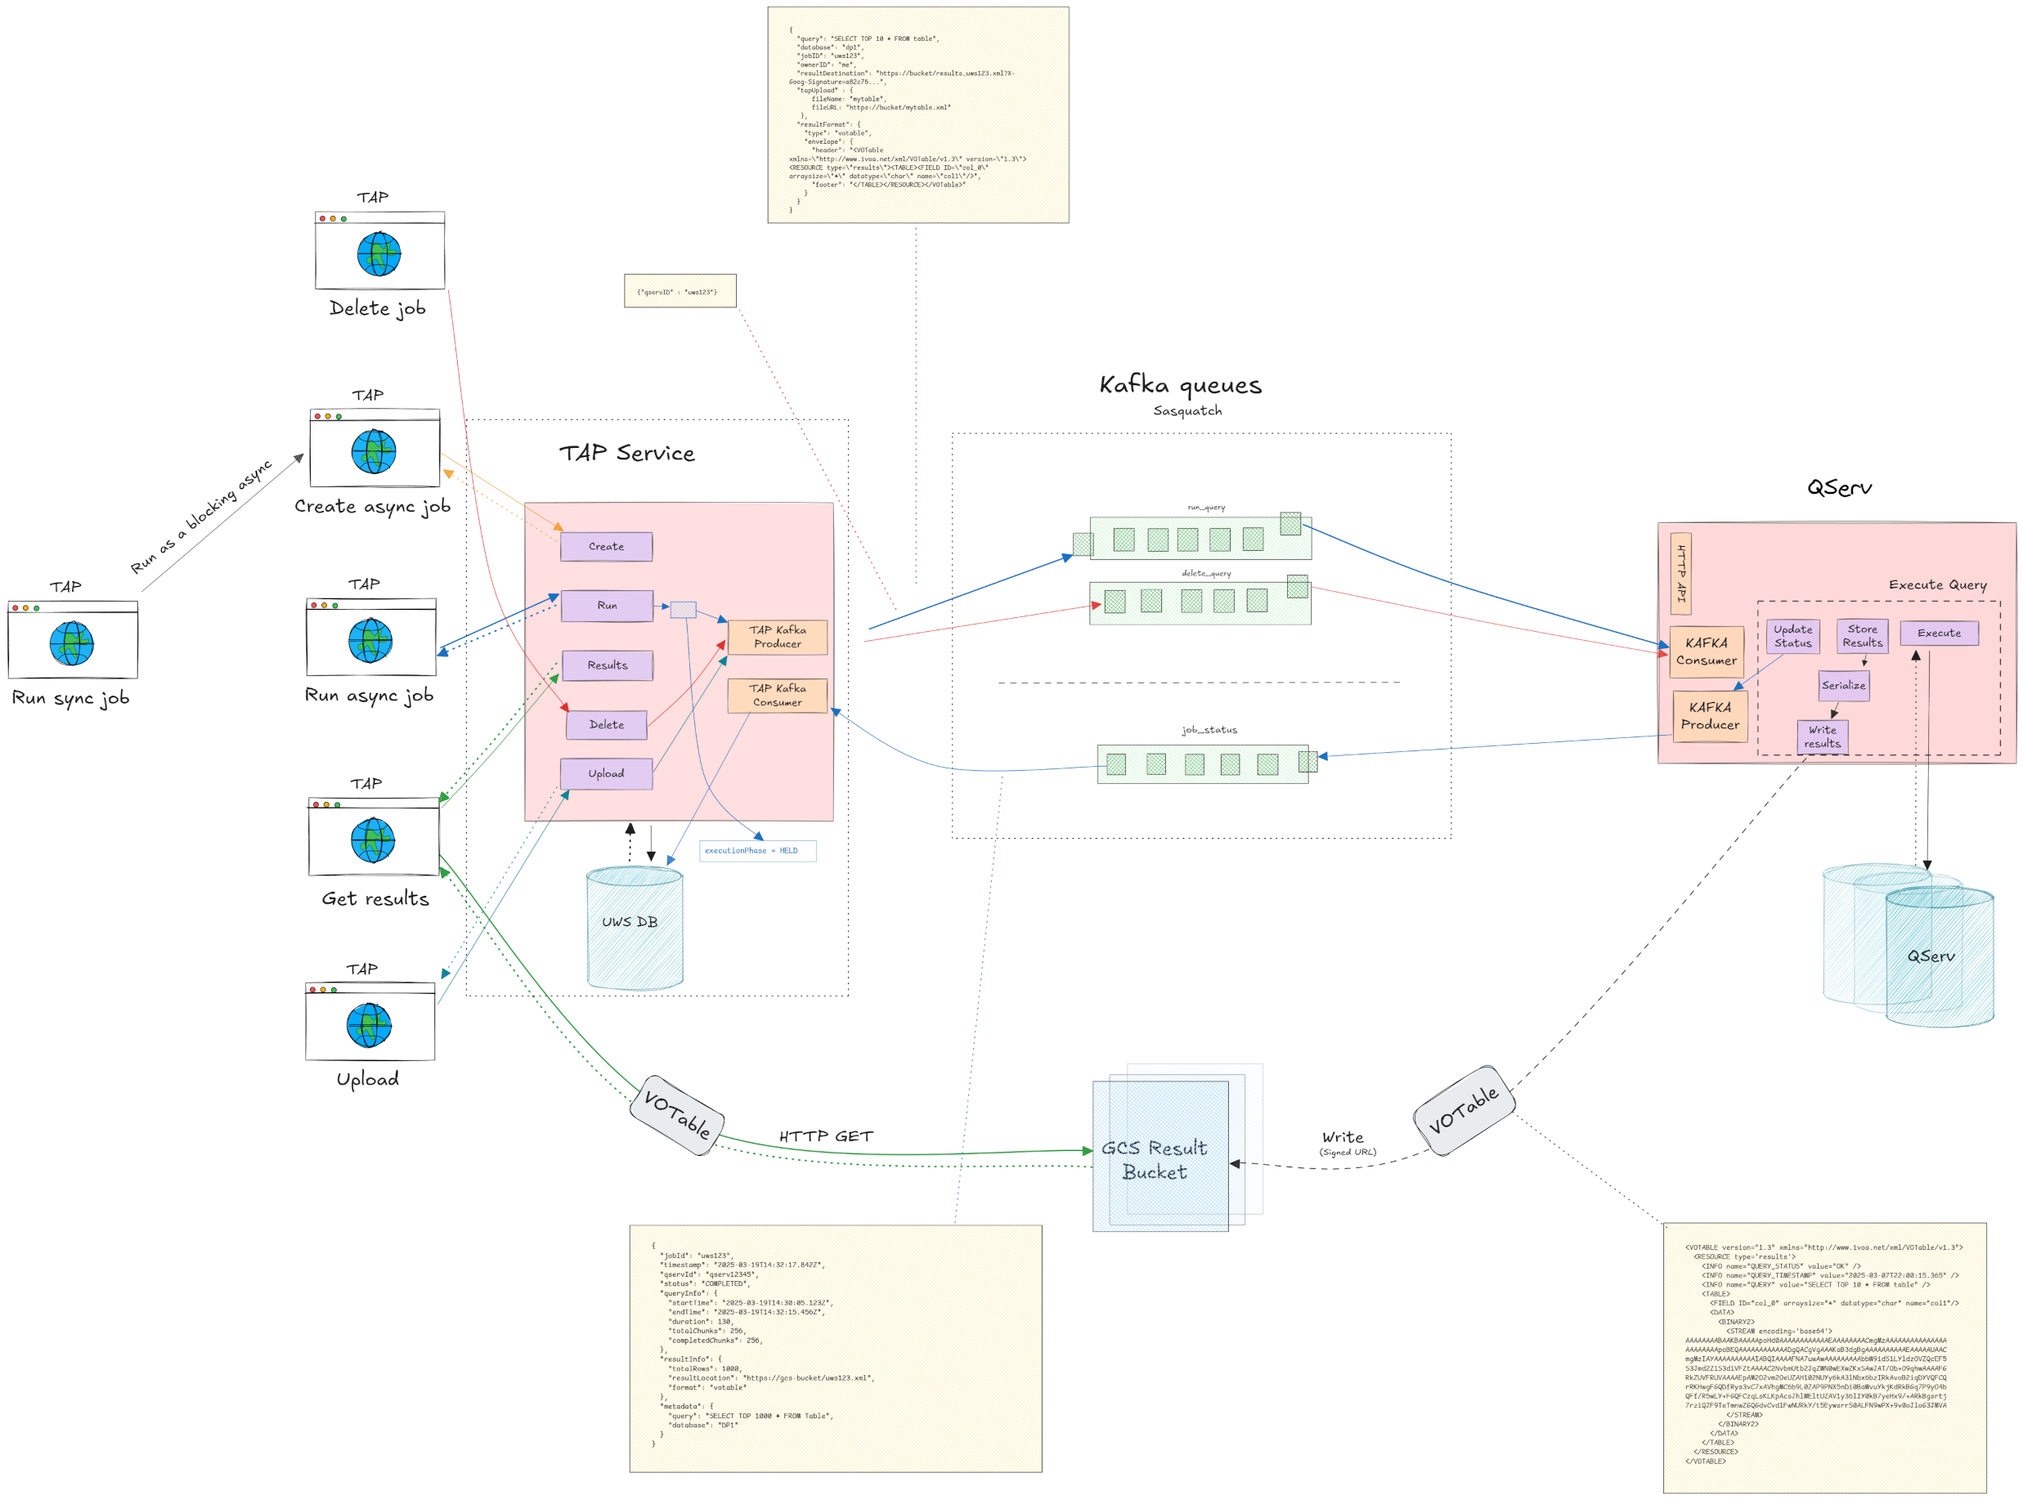
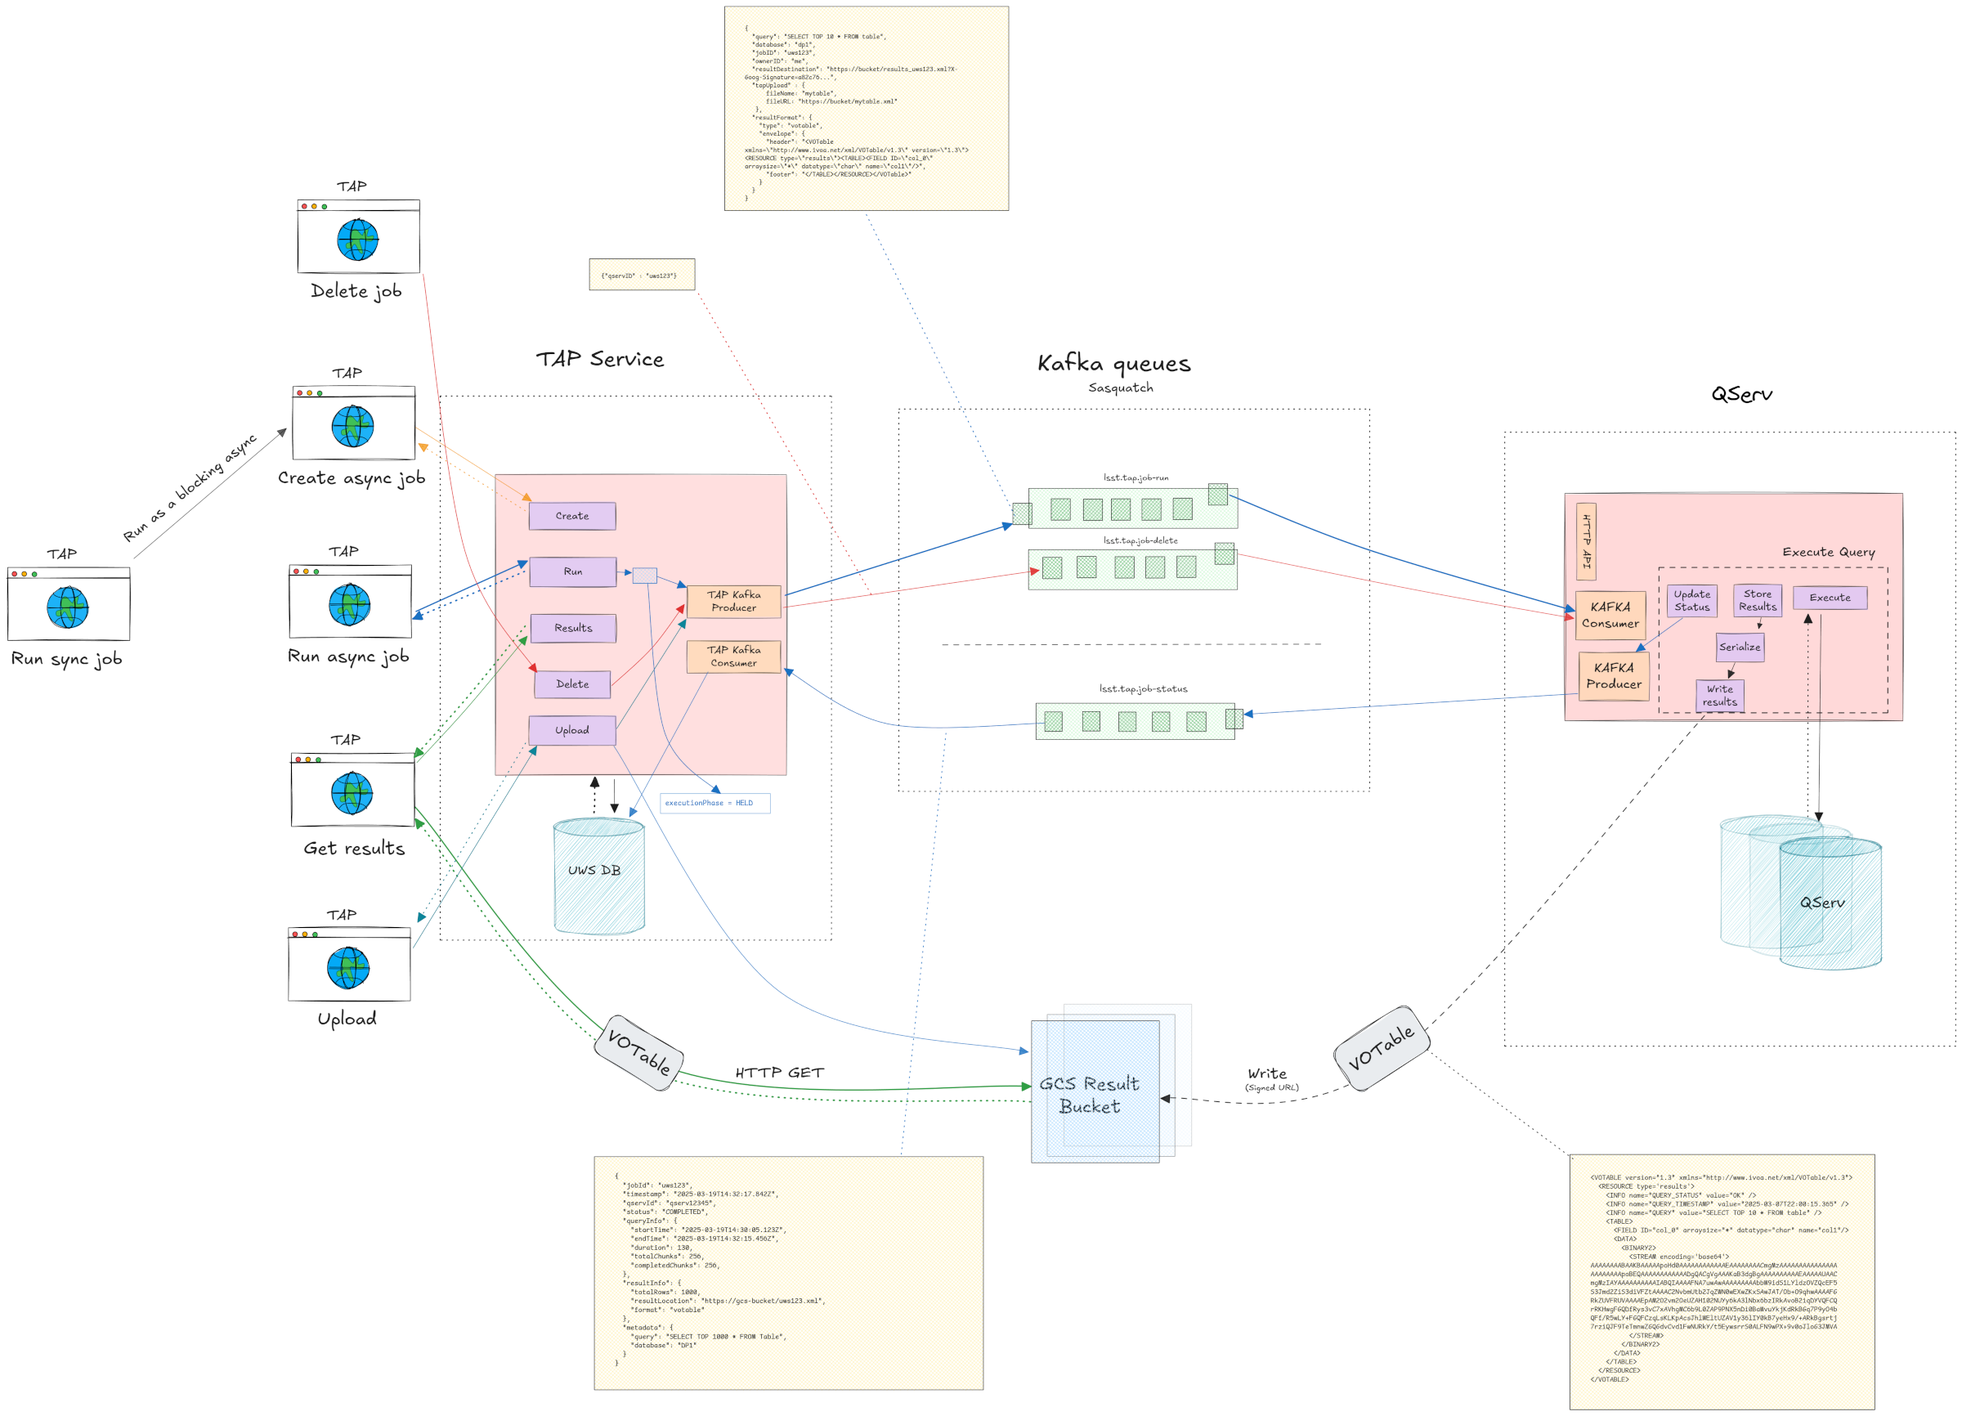
Updates from Angelos review

diff --git a/index.md b/index.md
@@ -6,7 +6,7 @@ The current setup lacks crucial query control capabilities - specifically, the a
 We propose a new event-based architecture that decouples the TAP service from 
 QServ. This architecture utilizes Kafka queues as the means for messaging 
 between TAP and QServ, with a plan to take advantage of existing systems 
-and knowledge (Sasquatch, Strimzi), to enable asynchronous query execution 
+and knowledge, in particular, Apache Kafka managed by Sasquatch to enable asynchronous query execution 
 with capabilities for query cancellation and monitoring.
 ```
 
@@ -64,6 +64,7 @@ System Architecture
 ```
 
 ### Core Components
+
 - TAP Service: CADC TAP service
 - UWS Database: Stores job information and status
 - QServ: Distributed database with HTTP REST API for query execution
@@ -71,6 +72,7 @@ System Architecture
 - Google Cloud Storage (GCS): Store Query VOTable results
 
 ### Key Technical Elements
+- 
 - Job ID Correlation: We’ll maintain a mapping between uws jobID and qservID
 This may be done as an additional field in the UWS table (qservID)
 - Signed URLs: We may be able to use signed URLs as a means for QServ to write to GCS without credential management
@@ -94,26 +96,40 @@ This may be done as an additional field in the UWS table (qservID)
 - TAP service performs query validation, transformation to QServ SQL, and 
   extracts select list with metadata and generates the VOTable envelope
 - (Optional) TAP service updates the status of the job to QUEUED
-- TAP service publishes a message to the run_query Kafka topic
+- TAP service publishes a message to the lsst.tap.job-run Kafka topic
 - Nothing else required at this point from the TAP Service.
 
 #### QServ:
 
-- QServ pulls an event from run_query Kafka queue
-- QServ sends out a job_status update event with status = EXECUTING 
+- QServ pulls an event from lsst.tap.job-run Kafka queue
+- QServ sends out a lsst.tap.job-status update event with status = EXECUTING 
   and begins the query execution
+- While executing the query, QServ sends out lsst.tap.job-status events with 
+  progress information, such as the number of chunks processed, 
+  estimated time remaining, etc. The interval of these updates is TBD, but
+  perhaps every 20% of the total chunks processed would be a good starting 
+  point.
 - Upon completion, it serializes the results as a VOTable (XML), using the VOTable envelope provided, ideally using BINARY2 serialization.
 - QServ writes the results to the GCS bucket, using the signed URL provided
-- Upon successful writing, it sends out an event to the job_status with the 
+- Upon successful writing, it sends out an event to the lsst.tap.job-status with the 
   status of the job (COMPLETED / FAILED / ABORTED).
 
 #### TAP Service:
 
-- TAP Service pulls events from job_status.
+- TAP Service pulls events from lsst.tap.job-status.
 - It then updates the UWS database with the metadata provided in that event.
 - Events in this case may indicate a Completed job, a job that failed along with metadata on reasons for the failure, or a status of RUNNING to indicate that the job is now executing. 
-We may also choose to include progress information here which is available in QServ, like how many chunks out of the total have completed. 
-This can then be added to the jobdetail UWS table and become available via the UWS job endpoint.
+
+One of the benefits of the new architectue is that it allows us to provide 
+progress information to the user. The initial proposal here is to store this
+information in the jobdetail UWS table, with each update event appending a 
+new row to that table.
+
+If we find that this is producing too much data, we may also consider
+introducing a new field in the UWS job table to store the progress information,
+though this would probably be an implementation-specific defail which would not
+end up as part of the upstream CADC codebase.
+
  
 #### Result Retrieval Flow
 
@@ -163,47 +179,39 @@ before deciding if we need to move to a more complex solution.
     
 #### TAP Service:
 
-- Upon receiving a request to delete a job send an event to the delete_query 
+- Upon receiving a request to delete a job send an event to the lsst.tap.job-delete 
 topic
 - Update the status of the UWS job to set it to DELETED
 
 #### QServ:
 
 - Upon receiving a request to delete a job, stop and delete query
+Our approach here would be to set the job to DELETED in UWS before sending off the event in Kafka. This ensures that the job is marked as deleted, in case the user checks the status before the event is processed by QServ.
 
 
-A detail here to be ironed out is whether we should set the job to DELETED in UWS regardless of what happens on the 
-QServ side, or if we instead add another interaction step where we wait for 
-a job status update from QServ which will then set the job to DELETED.
+#### Temporary Upload Data Flow
 
-If we go with the second approach, we may run into the following scenario:
-- User asks to delete a job.
-- User asks to see this job, which has a status of COMPLETED instead of 
-  DELETED.
-
-Therefore, it probably makes to go with the first approach and set the job to DELETED in UWS regardless of what happens on the QServ side.
-
-
-#### TAP Upload Data Flow
-
-The TAP Upload process will look something like this:
+The temporary TAP Upload process will look something like this:
 
 #### TAP Service:
+
 - Upon receiving a request to do a TAP_UPLOAD query, we take the uploaded file 
   and push it to GCS. 
-- Send the GCS URL along with a name for the file to the upload_table topic 
-  as additional metadata in the run_query event.
+- Send the GCS URL along with a name for the file as additional metadata in the lsst.tap.job-run event.
 
 #### QServ:
 
 - Upon receiving a request to upload a user table, use the GCS URL to upload 
 the file into QServ.
 - Once table has been uploaded, initialize the query and send a topic to 
-  job_status with status = EXECUTING
-- Upon completion, send an event to the job_status topic with the status of 
+  lsst.tap.job-status with status = EXECUTING
+- Upon completion, send an event to the lsst.tap.job-status topic with the status of 
   the job (COMPLETED / FAILED / ABORTED).
 - Delete table from QServ
 
+This is a preliminary design for the temporary TAP upload which requires 
+some more considerations and may be changed in the future as we get 
+further into the implementation.
 
 ## 3.  Event Schemas
 
@@ -213,13 +221,8 @@ the file into QServ.
 
     {
       "type": "object",
-      "required": ["query", "jobID", "ownerID", "resultDestination", "resultFormat", "schemaVersion"],
+      "required": ["query", "jobID", "ownerID", "resultDestination", "resultFormat"],
       "properties": {
-        "schemaVersion": {
-          "type": "string",
-          "description": "Version of the schema",
-          "default": "1.0"
-        },
         "query": {
           "type": "string",
           "description": "The SQL query to be executed by QServ"
@@ -293,7 +296,6 @@ the file into QServ.
 ### Job run example event
 
     {
-      "schemaVersion": "1.0",
       "query": "SELECT TOP 10 * FROM table",
       "database": "dp1",
       "jobID": "uws123",
@@ -315,13 +317,8 @@ the file into QServ.
 
     {
       "type": "object",
-      "required": ["qservID", "schemaVersion"],
+      "required": ["qservID"],
       "properties": {
-        "schemaVersion": {
-          "type": "string",
-          "description": "Version of the schema",
-          "default": "1.0"
-        },
         "qservID": {
           "type": "string",
           "description": "QServ query ID"
@@ -336,7 +333,6 @@ the file into QServ.
 ### Example job delete event
 
     {
-      "schemaVersion": "1.0",
       "qservID": "qserv-123",
       "ownerID": "me"
     }
@@ -348,13 +344,8 @@ the file into QServ.
 
     {
       "type": "object",
-      "required": ["jobID", "timestamp", "status", "schemaVersion"],
+      "required": ["jobID", "timestamp", "status"],
       "properties": {
-        "schemaVersion": {
-          "type": "string",
-          "description": "Version of the schema",
-          "default": "1.0"
-        },
         "jobID": {
           "type": "string",
           "description": "UWS job ID"
@@ -470,7 +461,6 @@ the file into QServ.
 ### Job status for completed query example
 
     {
-      "schemaVersion": "1.0",
       "jobID": "uws-123",
       "qservID": "qserv-123",
       "timestamp": "2025-03-19T..",
@@ -497,7 +487,6 @@ the file into QServ.
 ### Job status with error
 
     {
-      "schemaVersion": "1.0",
       "jobID": "uws-123",
       "qservID": "qserv-123",
       "timestamp": "2025-03-19T..",
@@ -521,14 +510,37 @@ the file into QServ.
       }
     }
 
-## 4. Kafka Topics Structure
+## Result Format & Serialization
 
-- run_query - Requests to start a query from TAP service towards QServ
-- delete_query - Requests to stop & delete a query from TAP service towards QServ
-- job_status - Update to job status from QServ towards TAP service 
+There are three possible formats that we are considering for the results:
+
+- VOTable with TABLEDATA serialization
+- VOTable with BINARY2 serialization (https://www.ivoa.net/documents/VOTable/20241125/PR-VOTable-1.5-20241125.html#tth_sEc5.4)
+- VOTable-in-parquet https://wiki.ivoa.net/twiki/bin/viewfile/IVOA/InterOpNov2024Apps?filename=votparquet.pdf;rev=1)
+
+The selection is primarily driven by compatibility with the main data 
+consumers, pyvo and Firefly, along with performance optimization 
+considerations.
+
+TABLEDATA serialization will be the simplest to implement, but it is also
+the least efficient in terms of data transfer. BINARY2 serialization is
+more efficient, but it is also more complex to implement. VOTable-in-parquet
+is the most efficient, but it is work in progress and may not be ready for
+DP1.
+
+The proposal for this technote is to aim to implement BINARY2 serialization
+for the initial implementation, with a backup plan to use TABLEDATA if
+BINARY2 is not feasible, and a longer-term goal of moving to VOTable-in-parquet
+once it is ready.
+
+## 5. Kafka Topics Structure
+
+- lsst.tap.job-run - Requests to start a query from TAP service towards QServ
+- lsst.tap.job-delete - Requests to stop & delete a query from TAP service towards QServ
+- lsst.tap.job-status - Update to job status from QServ towards TAP service 
 
 
-## 5. Potential Challenges and Considerations
+## 6. Potential Challenges and Considerations
 
 
 ### How do we handle ObsCore queries that return datalinks?
@@ -541,7 +553,7 @@ However, in the new architecture, QServ will be writing the results to GCS,
 without the results going through TAP, so we need to figure out a way to 
 provide the base URL to QServ so that it can use this in the access_url field of the VOTable.
 
-In the proposal here, we include the base URL in the metadata provided in the run_query event, 
+In the proposal here, we include the base URL in the metadata provided in the lsst.tap.job-run event, 
 which QServ can then use to construct the access_url field in the VOTable.
 
 ### Should QServ be aware of the UWS job? 
@@ -577,38 +589,43 @@ check that the user is the owner of the job before sending the delete
 event, or QServ needs to check this before deleting the job.
 Probably the best approach is to have the TAP service to do this check.
 
-## 6. QServ Change Requirements
+## 7. QServ Change Requirements
 
-### 6.1 Add Kafka consumer and Producer
+### Add Kafka consumer and Producer
 
-Add a Kafka consumer in the QServ app which will read from the run_query, 
-delete_query topics and act on the messages received.
+Add a Kafka consumer in the QServ app which will read from the lsst.tap.job-run, 
+lsst.tap.job-delete topics and act on the messages received.
 
-Add a Kafka producer in QServ which will send out events for job_status updates, including:
+Add a Kafka producer in QServ which will send out events for lsst.tap.job-status updates, including:
 - Job is running
 - Job has completed, either successfully or with failure
 
 
-### 6.2 Result Writing Mechanism
+### Result Writing Mechanism
 
 Implement functionality to:
 Write query results directly to GCS using the provided signed URL
 
-### 6.3 Result Format
+### Result Format
 
 Generate a VOTable for the results. Ideally use the BINARY2 table serialization
 The VOTable header/footer will be provided in the initial query request.
 
-### 6.4 (Optional) Correlate UWS job ID with QServ ID
+### Correlate UWS job ID with QServ ID
 
-This is an optional requirement, but it would be useful to have a way to correlate the UWS jobID with the QServ queryID.
+Upon TAP sending a job-run event, QServ will need to either:
 
-The metadata provided in the create query event will include the uws jobID. 
-If this jobID can then be included in the outgoing event from QServ, then we can use this in the process of syncing this event to the UWS database, which uses the jobID as a pkey.
+a) Store the mapping between UWS jobID and QServ queryID
+b) Take the uws jobID that was provided in the event, and send it as part of
+the job-status event, so that the TAP service can correlate the two.
 
-If this is not possible we’ll have to use qservID as the key.
+Ideally, if it can be passed along with every job status event, the TAP
+can use that to update the UWS job status. Otherwise, we can also use 
+qservID as the key (assuming we have indexed it as a new field in the UWS 
+job table), however the initial correlation still needs to happen, so the 
+initial job-run event would have to contain the uws jobID.
 
-### 6.5 Authentication and Security
+### Authentication and Security
 
 #### Writing to GCS:
 
@@ -616,23 +633,23 @@ Qserv should be able to write results to GCS using signed URLs.
 Also, we need to ensure that the Kafka producer and consumer can interact 
 with the cloud idfs.
 
-### 6.6 Failed queries
+### Failed queries
 
 Failed synchronous queries need to be written out as proper VOTable results with error status and messages contained as per the IVOA spec.
 In this design, probably the best way to handle this is to have QServ 
-include any error messages in the job_status event, and then have the TAP 
+include any error messages in the lsst.tap.job-status event, and then have the TAP 
 service update the UWS job with this error message. In the case of a 
 synchronous query the TAP service will then have to generate the VOTable 
-which will contain this error message it got from the job_status event.
+which will contain this error message it got from the lsst.tap.job-status event.
 
-### 6.7 Datalink access_urls
+### Datalink access_urls
 
 As mentioned above, we need to figure out a way to provide the base URL to QServ 
 so that it can use this in the access_url field of the VOTable. This 
 implies some additional logic in QServ to know when to format the results of a
 query and overwrite the access_url field with the base URL provided.
 
-A simple approach would be that when QServ receives a run_query event that 
+A simple approach would be that when QServ receives a lsst.tap.job-run event that 
 contains a base URL, it will use this base URL to overwrite the access_url. 
 
 In other words the TAP service already knows that it wants the results 
@@ -644,11 +661,11 @@ to indicate the field name to format, and how to format the row values.
 
 
 
-## 7. TAP Service Change Requirements
+## 8. TAP Service Change Requirements
 
 ### TAP Kafka Consumer
 
-A Kafka consumer which listens to job_status topics and updates the UWS database accordingly.
+A Kafka consumer which listens to lsst.tap.job-status topics and updates the UWS database accordingly.
 
 ### TAP Kafka Producer
 
@@ -680,3 +697,19 @@ The TAP_UPLOAD process will require the TAP service to push the file to GCS and 
 The TAP Service needs to read the results URL from a completed jobs and 
 store it in UWS. However, we use a redirect servlet to serve the results,
 so we need to store the redirect URL in UWS, not the GCS URL.
+
+
+## 9. Batch maintenance job to clean up old & jobs that have timed out
+
+We need to have a batch job that runs periodically to clean up old jobs that have been completed, and also jobs that have timed out.
+This may occur in situations where QServ goes down and is unable to send a 
+job status update, or if the job is stuck in a running state for an extended period.
+
+To address this we could have a batch job that runs periodically to check the
+status of jobs that have been running for an extended period, and if they have
+exceeded a certain timeout, mark them as failed. The timeout would be set to 
+a value close and above what the QServ query timeout is set to.
+
+We could also potentially utilize the QServ REST HTTP API which has a status
+endpoint to check the status of a query. This would allow us to check the
+actual status of the job before marking it as failed.
